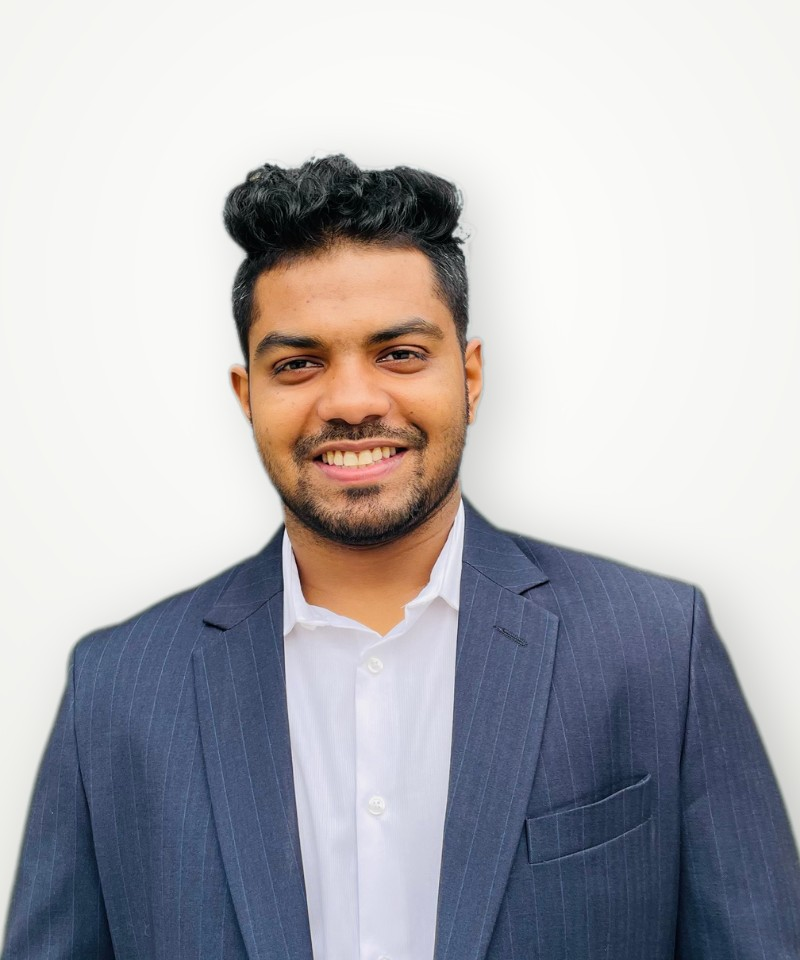
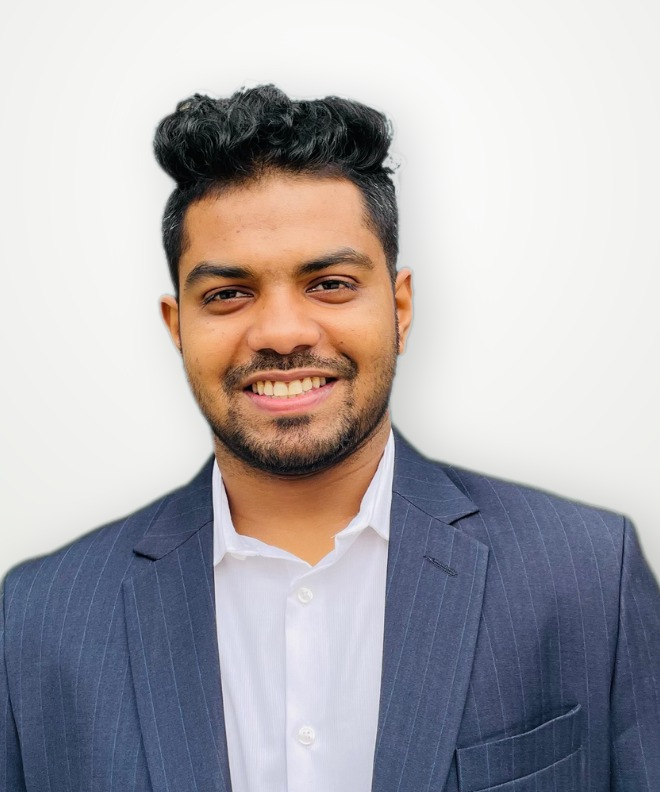
Tighter portrait crop that fills the photo frame
Claude-Session: https://claude.ai/code/session_01ANVzfTvUA3vFqrqj6iTjQQ

Changed region(s): [[0.0, 0.0909, 1.0, 1.0], [0.4242, 0.8485, 0.4545, 0.9394], [0.2424, 0.8182, 0.2727, 0.8485]]

diff --git a/index.html b/index.html
@@ -85,7 +85,7 @@
     <section class="block wrap" id="about">
       <h2 class="block-title">About</h2>
       <div class="block-body about">
-        <img class="portrait" src="./firoz.jpg" alt="Portrait of SM Firoz Ahmed Fahim" width="200" height="240">
+        <img class="portrait" src="./firoz.jpg?v=2" alt="Portrait of SM Firoz Ahmed Fahim" width="200" height="240">
         <div class="about-text">
           <p>
             My research focuses on large language models, computer vision and quantum machine learning,
